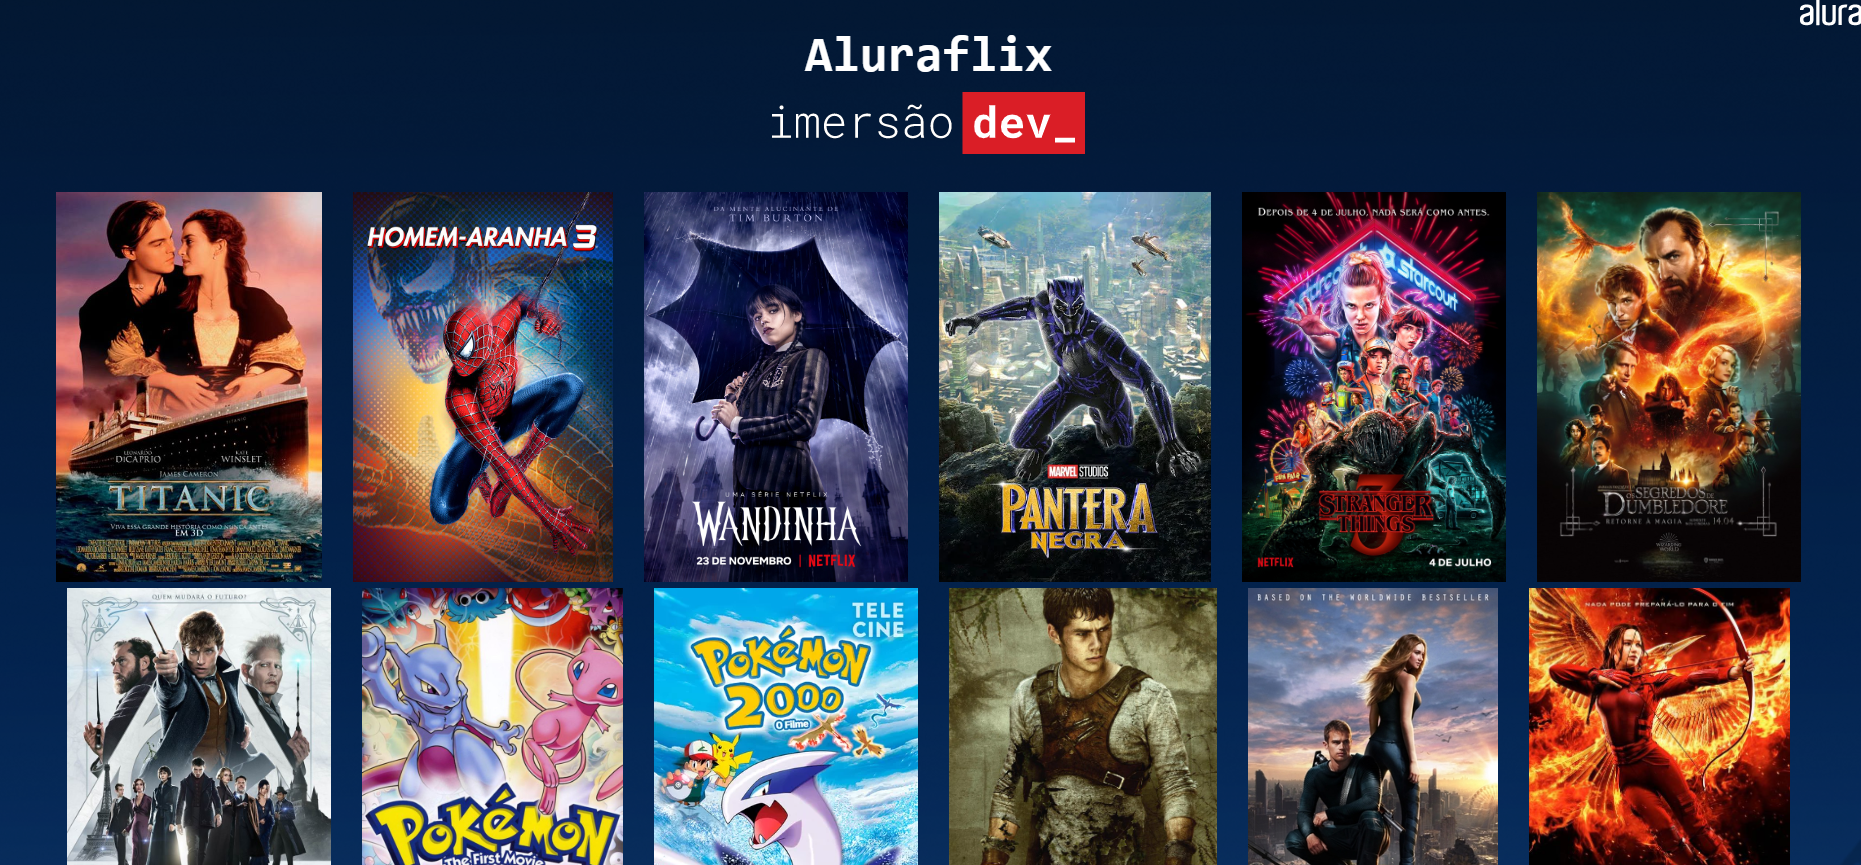
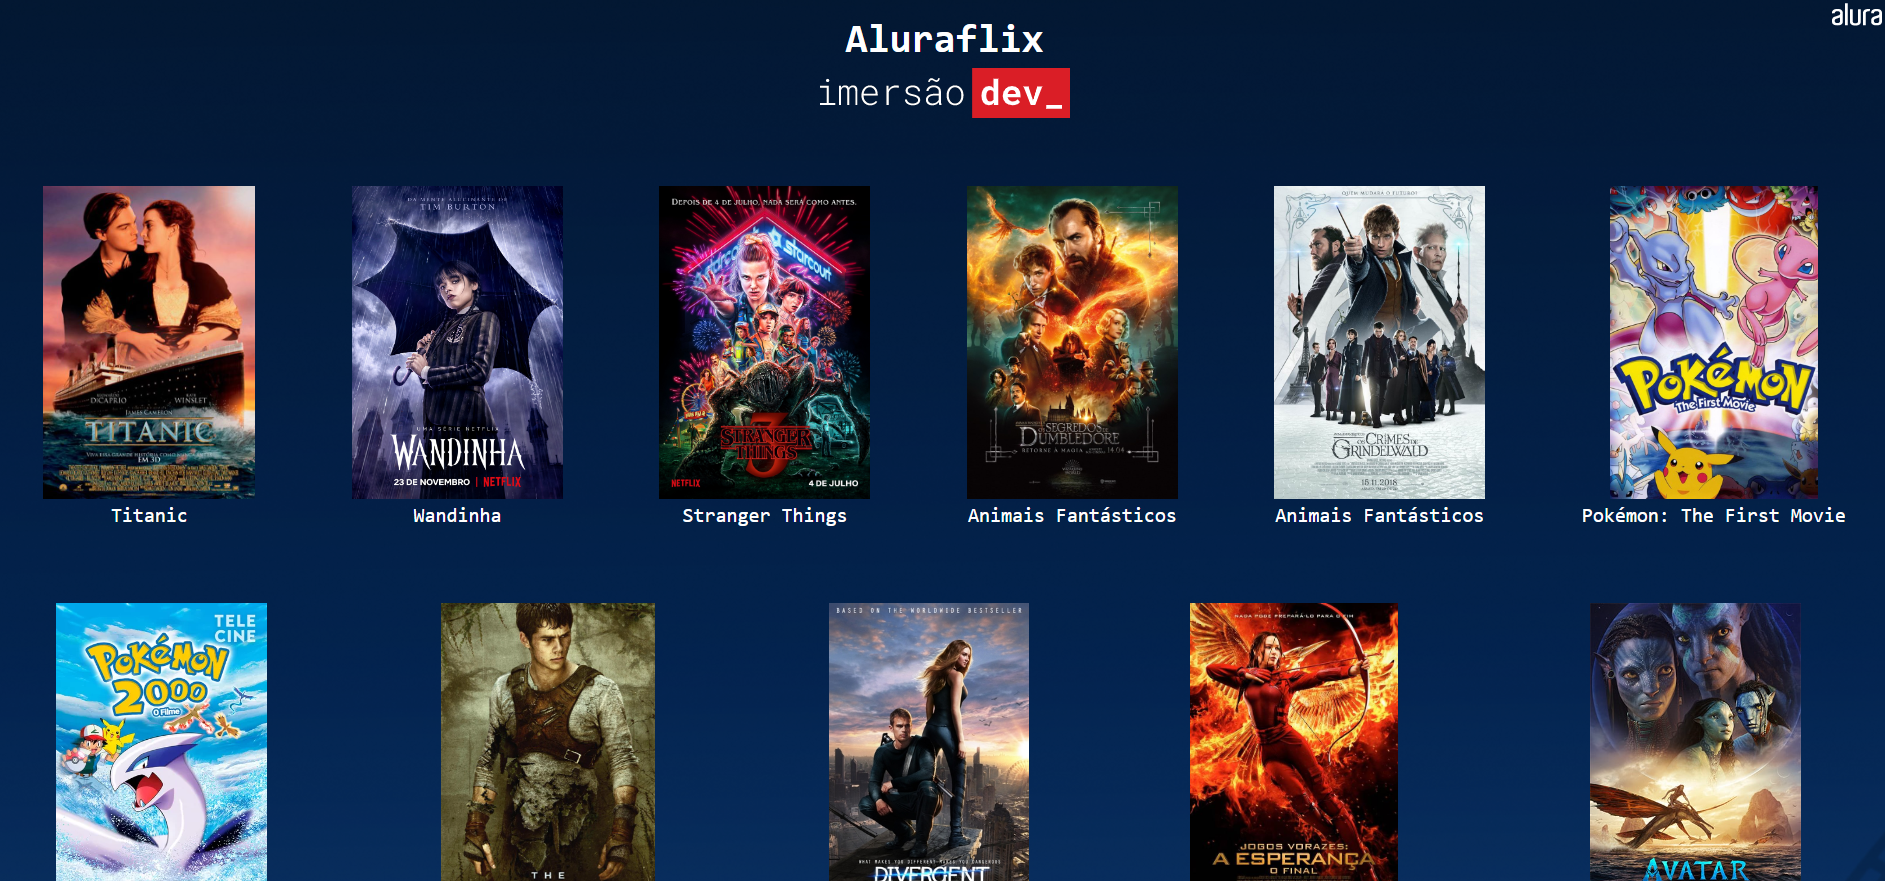
Ajustes

diff --git a/script.js b/script.js
@@ -1,7 +1,5 @@
 var listaFilmes = ["https://br.web.img2.acsta.net/medias/nmedia/18/89/56/94/20055685.jpg",
-                    "https://musicart.xboxlive.com/7/d7fc4500-0000-0000-0000-000000000002/504/image.jpg?w=1920&h=1080",
                     "https://br.web.img2.acsta.net/pictures/22/09/23/20/14/0505071.jpg",
-                    "https://lumiere-a.akamaihd.net/v1/images/unnamed_13_75a3ebb1.jpeg?region=0%2C0%2C356%2C512",
                     "https://br.web.img2.acsta.net/pictures/19/07/10/20/01/2331295.jpg",
                     "https://www.clickriomafra.com.br/emacite/wp-content/uploads/2022/04/Animais-Fant%C3%A1sticos-3-ser%C3%A1-exibido-no-Cineplus-Emacite-confira-a-programa%C3%A7%C3%A3o-1.jpg",
                     "https://br.web.img2.acsta.net/pictures/18/11/08/14/45/3423559.jpg",
@@ -12,14 +10,25 @@ var listaFilmes = ["https://br.web.img2.acsta.net/medias/nmedia/18/89/56/94/2005
                     "https://extra.globo.com/incoming/17656610-8fa-6f8/w533h800/cartaz.jpg",
                     "http://www.cinesystem.com.br/filmes/images/poster/avatar-o-caminho-da-agua.jpg",
                     "https://upload.wikimedia.org/wikipedia/pt/e/e6/Xmen_apocalypse_ver18.jpg"
-                ]
+                ];
 
-//listaFilmes[0] = "https://br.web.img2.acsta.net/medias/nmedia/18/89/56/94/20055685.jpg";
-//listaFilmes[1] = "https://musicart.xboxlive.com/7/d7fc4500-0000-0000-0000-000000000002/504/image.jpg?w=1920&h=1080";
-//listaFilmes[2] = "https://br.web.img2.acsta.net/pictures/22/09/23/20/14/0505071.jpg";
+listaFilmes.push('https://lumiere-a.akamaihd.net/v1/images/p_insideout_19751_af12286c.jpeg', 'https://cdn.shopify.com/s/files/1/1057/4964/products/harry-potter-and-the-chamber-of-secrets-vintage-movie-poster-original-1-sheet-27x41.jpg');
 
-for (var i=0; i<listaFilmes.length; i++) {
-    
-    document.write("<img src=" + listaFilmes[i] + ">");
-    
+var nomeFilmes = ['Titanic', 'Wandinha', 'Stranger Things', 'Animais Fantásticos', 'Animais Fantásticos', 'Pokémon: The First Movie', 'Pokémon 2000', 'Maze Runner: Correr ou Morrer', 
+                  'Divergente', 'Jogos Vorazes: A Esperança', 'Avatar: O Caminho da Água', 'X-Men: Apocalipse', 'Divertidamente', 'Harry Potter e a Câmara Secreta'];
+                
+document.write('<div class="container_todosFilmes">')
+
+var i = 0;
+while(i < listaFilmes.length){
+    if((listaFilmes[i].endsWith('jpg')) || (listaFilmes[i].endsWith('jpeg')) || (listaFilmes[i].endsWith('png'))){
+        document.write('<div class="container_filme">')
+        document.write('<img src='+ listaFilmes[i] +'>');
+        document.write('<p>'+ nomeFilmes[i] +'</p>');
+        document.write('</div>')
+    }else{
+        document.write('<p> A imagem ' + i + ' não foi lida pois não é um arquivo do tipo jpeg ou jpg </p>');
+    }
+    i++;
 }
+document.write('</div>')

diff --git a/style.css b/style.css
@@ -1,3 +1,8 @@
+*{
+    margin: 0;
+    box-sizing: border-box;
+}
+  
 body {
     font-family: "Roboto Mono", monospace;
     text-align: center;
@@ -7,37 +12,56 @@ body {
     background-position: center top;
     background-repeat: no-repeat;
 }
-
+  
 .container {
     text-align: center;
     padding: 20px;
 }
-
+  
 .page-title {
     color: #ffffff;
     margin: 0 0 5px;
 }
-
+  
 .page-subtitle {
     color: #ffffff;
     margin-top: 5px;
 }
-
+  
 .page-logo {
     width: 200px;
 }
-
+  
 .alura-logo {
     width: 40px;
     position: absolute;
     top: 10px;
     right: 10px;
 }
-
-body > img {
-    margin: 0 10px;
+  
+.container_todosFilmes{
+    display: flex;
+    flex-wrap: wrap;
+    justify-content: space-around;
 }
-
+  
+.container_filme{
+     padding: 2%;
+     display: block;
+     max-width: 30%;
+}
+  
 img {
     max-height: 250px;
+    max-width: 100%;
 }
+  
+img:hover{
+    transform: scale(1.2);
+}
+  
+p{
+    color: white;
+}
+  
+  
